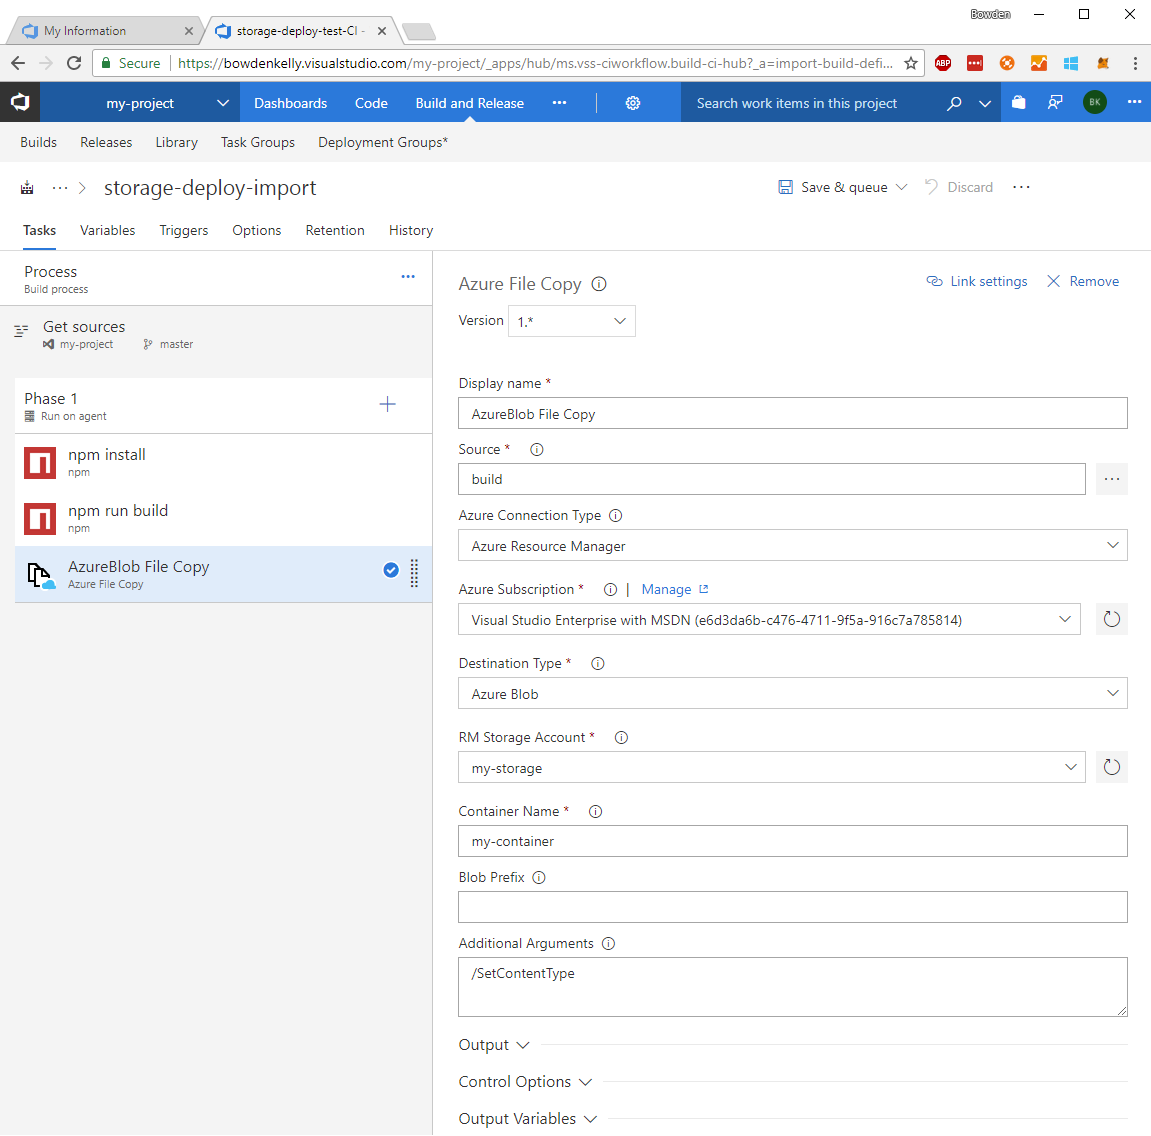
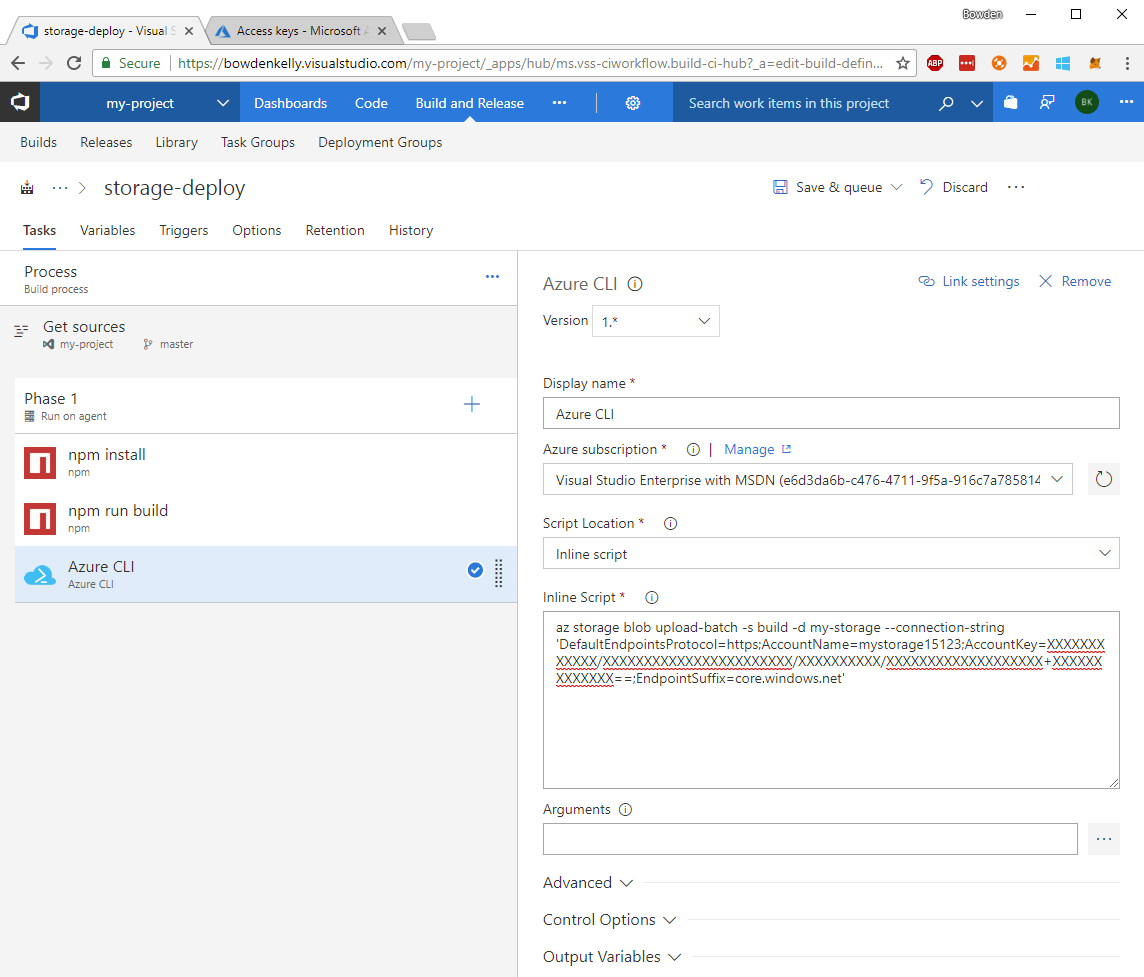
fixed images in storage section and fixed vsts section to use azure cli instead of azcopy.exe.

diff --git a/tutorials/static-website/create-storage.md b/tutorials/static-website/create-storage.md
@@ -19,34 +19,34 @@ In this section, we will setup our Azure Storage account and blob container.
 
 > Note! If you don't see **Storage accounts**, select **All services** from the top of the menu, find it in the full list, and star it to dock it in your menu bar.
 
-![Sign into Storage Explorer](images/storage/1-portal-select-storage.png)
+![Sign into Storage Explorer](images/static-website/storage/1-portal-select-storage.png)
 
 3. Click either **+ Add** or **Create Storage Accounts** to create a new account.
 
-![Sign into Storage Explorer](images/storage/2-portal-new-storage.png)
+![Create new storage account](images/static-website/storage/2-portal-new-storage.png)
 
 4. Fill in a **Name** for your storage account and the **Resource group**.
 Note the storage account name must be globally unique, so just add some random numbers to the end if the name you want is taken.
 Everything else can be left at the default value.
 When you're ready click **Create** and wait for the account to get created.
 
-![Sign into Storage Explorer](images/storage/3-portal-config-storage.png)
+![Add name and resource group](images/static-website/storage/3-portal-config-storage.png)
 
 5. When account creation is complete, you will get a notification (the bell icon in the top menu bar).
 Click **Go to resource**.
 
 6. Click **Blobs** in the Services section
 
-![Sign into Storage Explorer](images/storage/4-portal-config-storage.png)
+![Navigate to blobs](images/static-website/storage/4-portal-select-blobs.png)
 
 7. Click the **"+ Container"**, name your container, and set the access level to **Blob**.
 
-![Sign into Storage Explorer](images/storage/6-portal-create-container.png)
+![Create container](images/static-website/storage/6-portal-create-container.png)
 
 If everything was creating successfully, you should see your container and storage account information in the Blob service blade.
 Keep this window open, you'll need this information later.
 
-![Sign into Storage Explorer](images/storage/7-portal-confirm-container.png)
+![Confirm container](images/static-website/storage/7-portal-confirm-container.png)
 
 ## Setting relative paths
 

diff --git a/tutorials/static-website/deploy-VSTS.md b/tutorials/static-website/deploy-VSTS.md
@@ -70,12 +70,17 @@ After running `git push` you should be able to refresh your VSTS project page an
 
 2. Click the **Import** button in the top right and upload [this build definition template](https://raw.githubusercontent.com/bowdenk7/React-VSTS-build-definition/master/storage-deploy.json).
 
-![Import build](images/static-website/vsts/7-import-build.png)
+![Import build](images/static-website/vsts/7-import-build-definition.png)
 
 3. A few settings will be missing that you must fill in on your own:
-- In the **Process** section, select **Hosted** from the **Agent queue** drop down
+- In the **Process** section, select **Hosted Linux Preview** from the **Agent queue** drop down
 - Click on the **Get sources** section and let it update to automatically resolve the errors
-- Click on the **AzureBlob File Copy** section, select and authorize your Azure subscription, and select the **Storage Account** and **Container Name** we [created earlier](//TODO link back to earlier doc).
+- Click on the **Azure CLI** section, select and authorize your Azure subscription, and then input the container we [created earlier](create-storage) in place of **<container-name>** and **<connection-string>** in the **Inline Script** box.
+You can find the connection string in Azure Portal under the **Access Keys** section after selecting your storage account.
+
+
+> Warning! Make sure you keep single quotes around the `connection-string` argument.
+
 
 When done, your AzureBlob File Copy settings should look like this:
 
